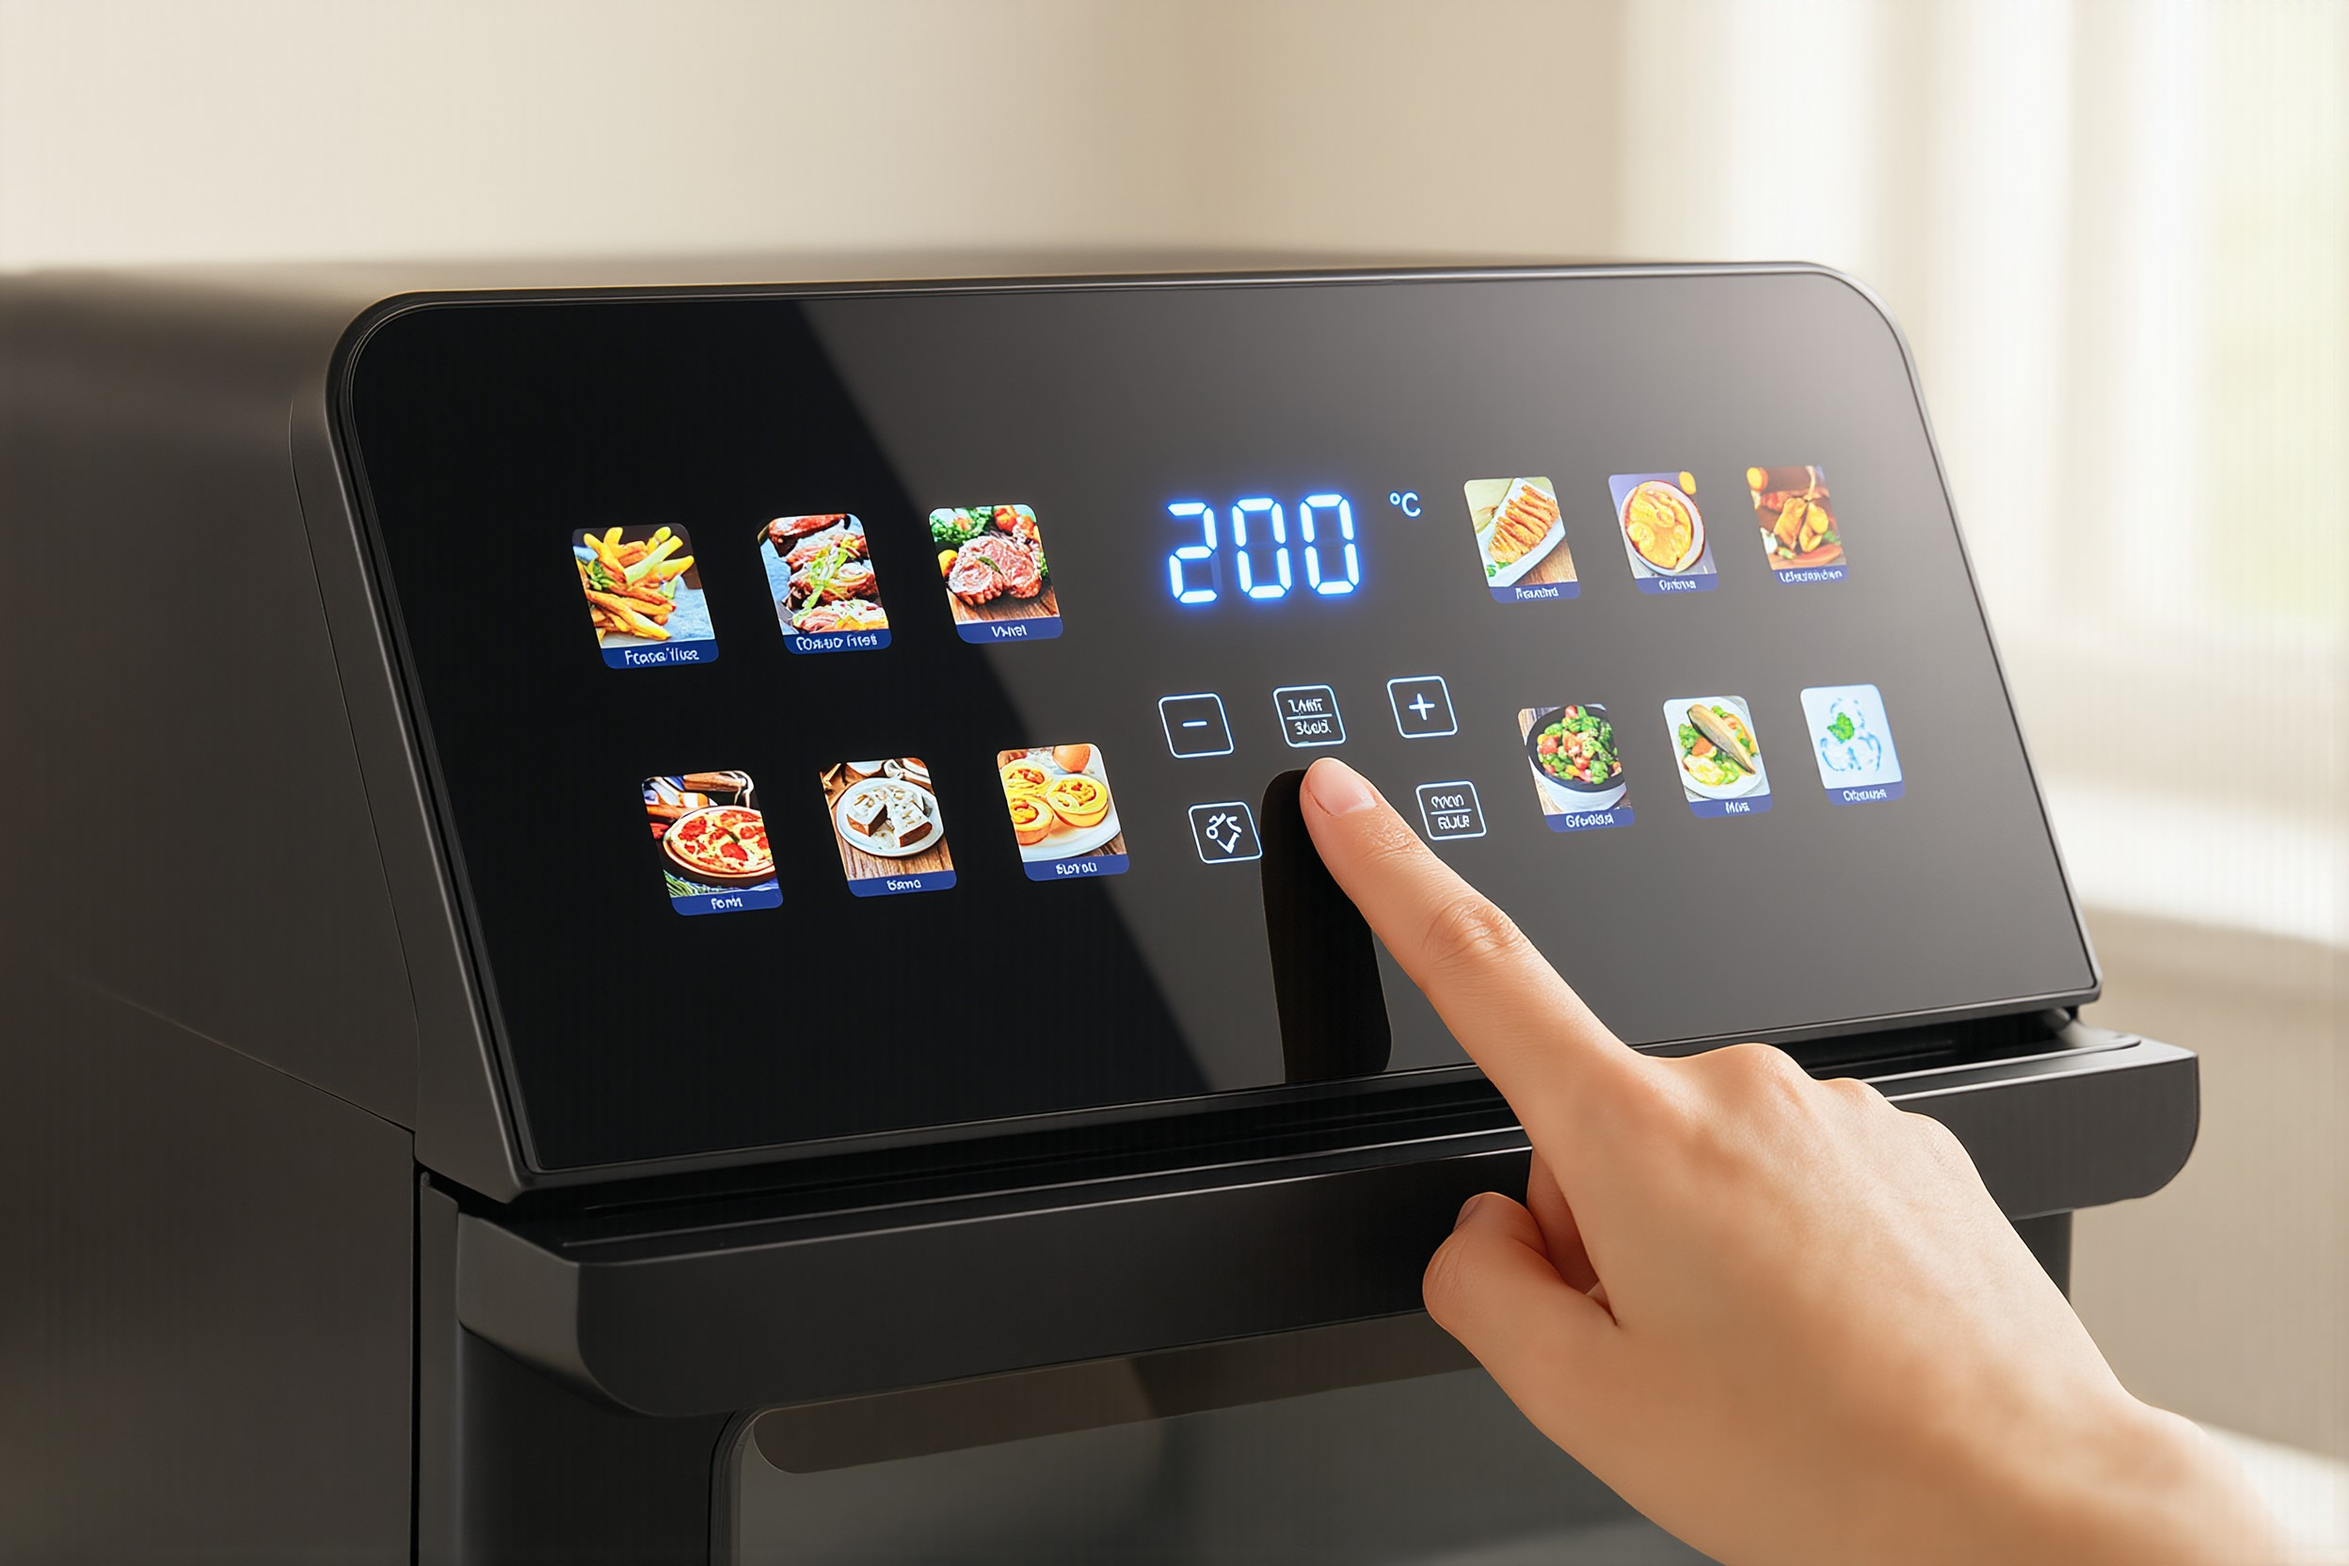
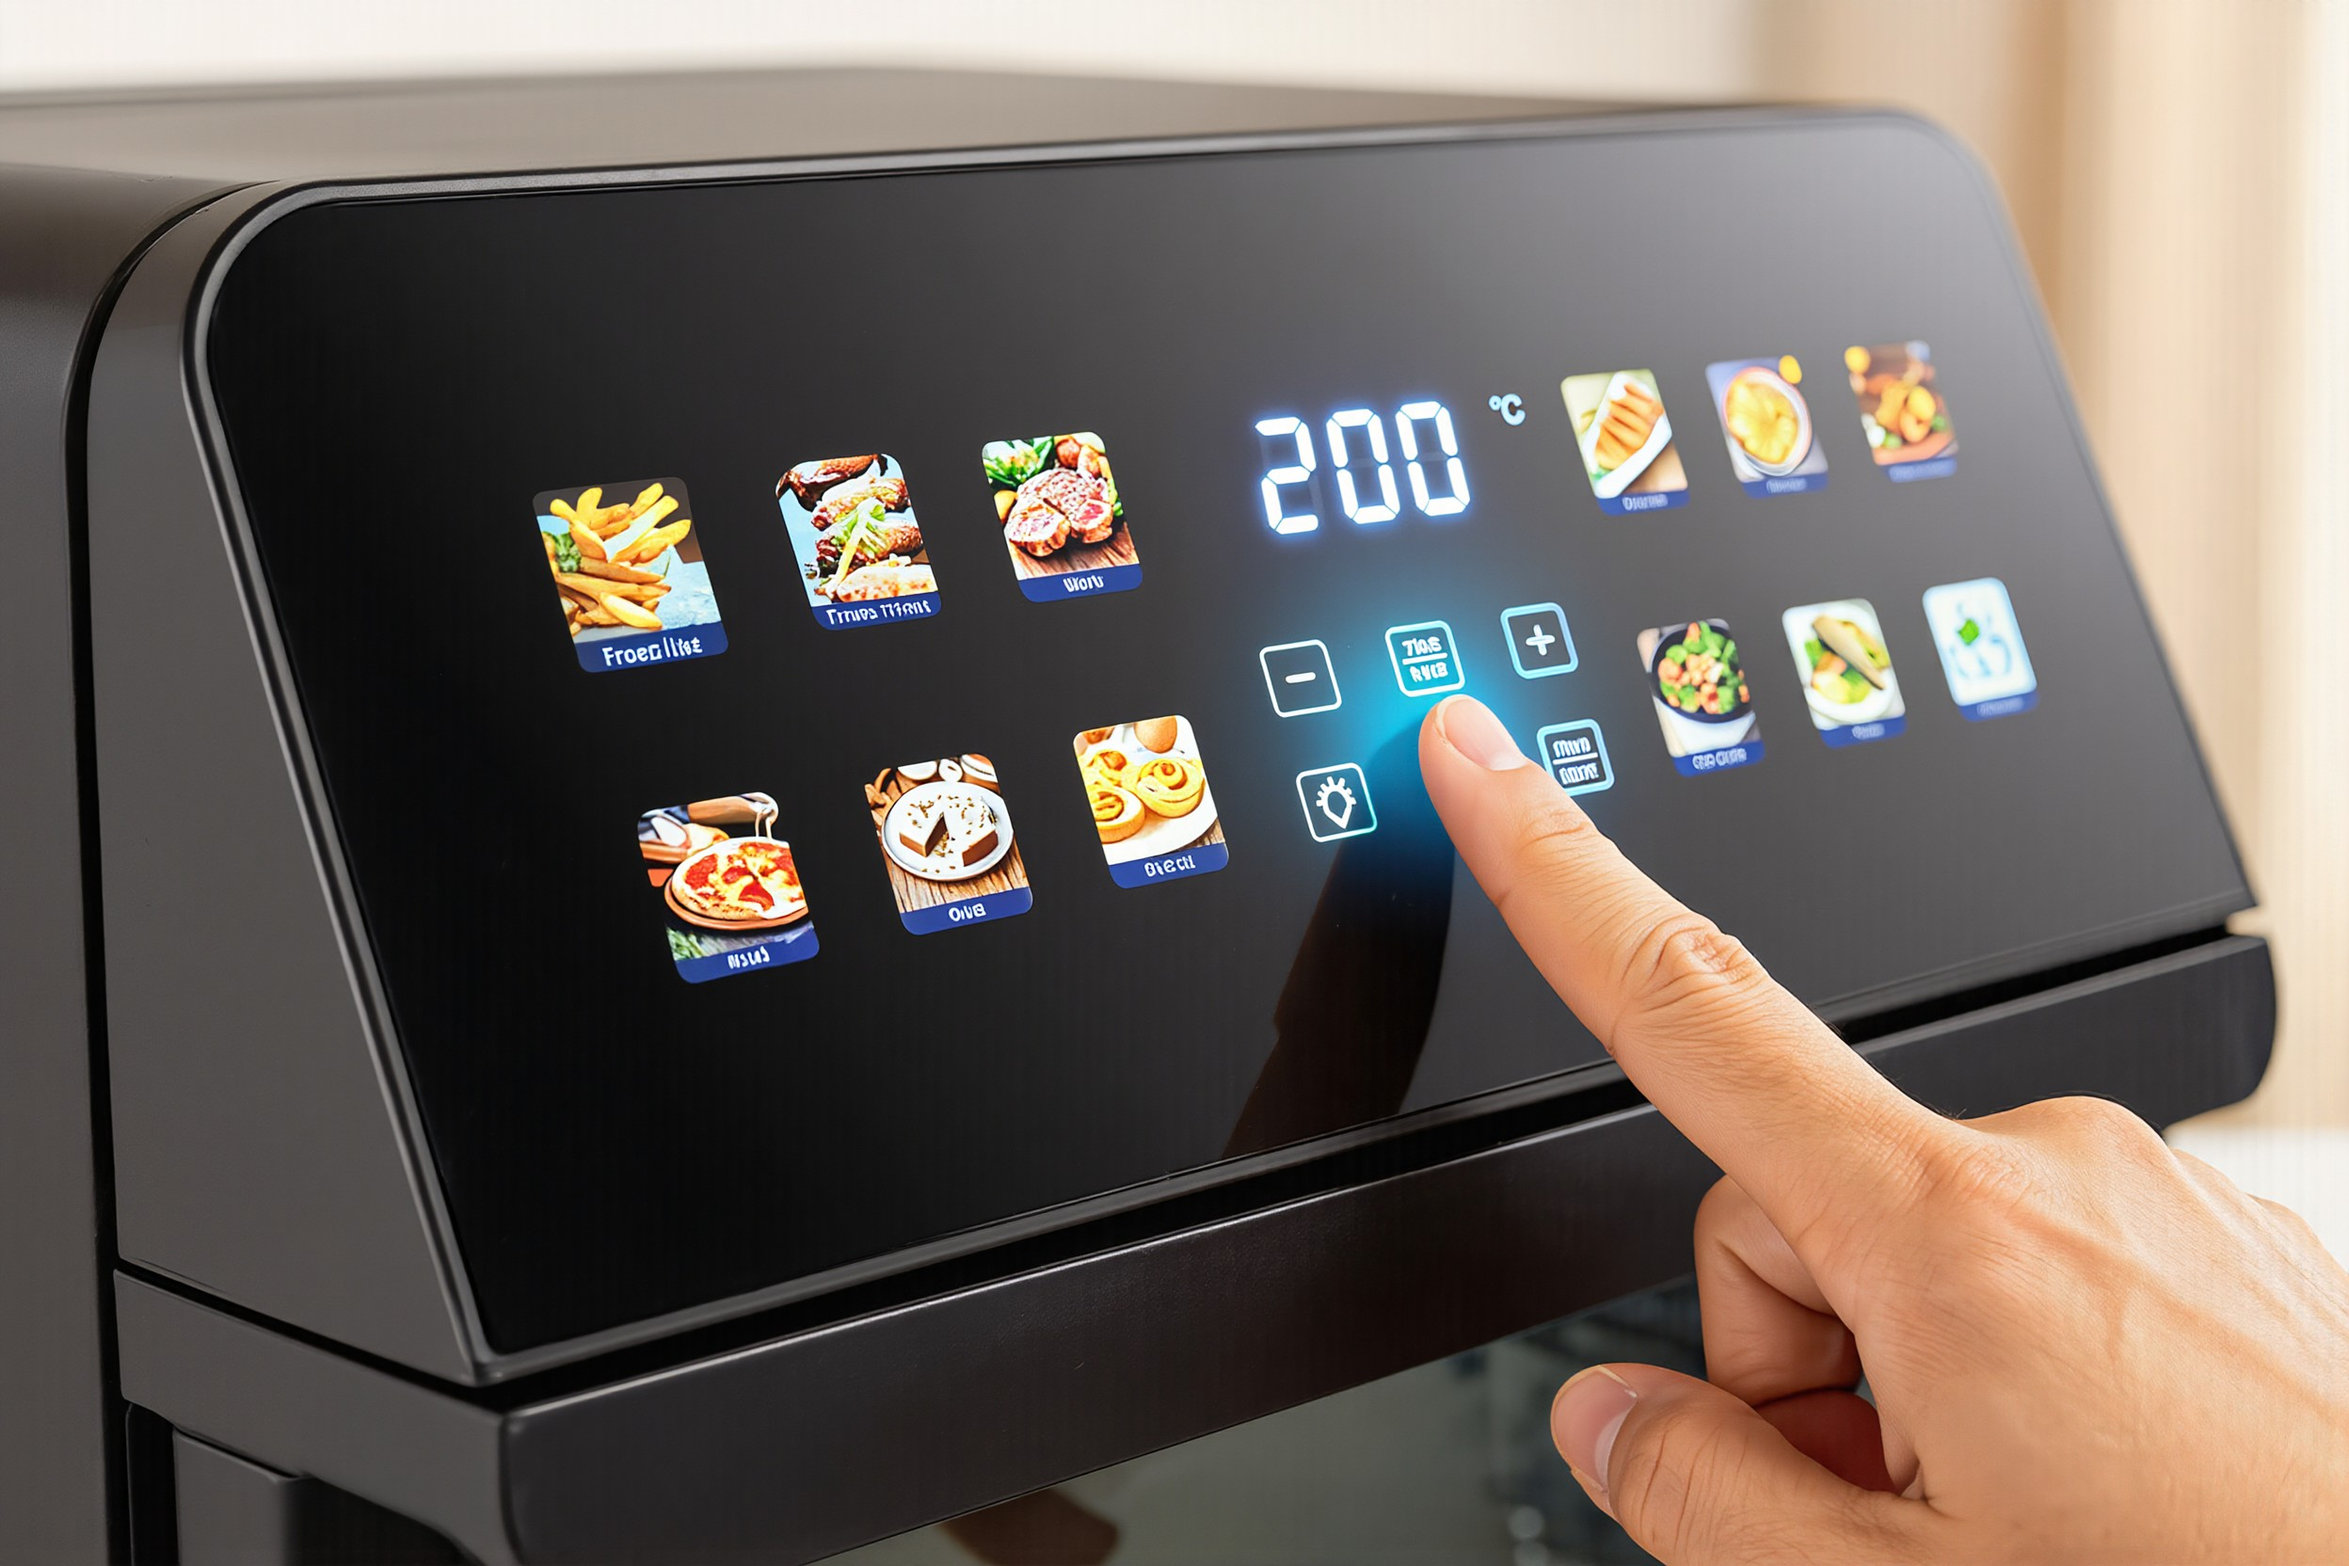
Regenerate Shopee images 5 and 7 to match the real machine
Matte charcoal body, same-colour Gaabor strip, shallow silver tray, corrected panel buttons.

Claude-Session: https://claude.ai/code/session_01SswZjTuHexTcYpVpFSNqn5

diff --git a/shopee_images/src/img5.html b/shopee_images/src/img5.html
@@ -4,7 +4,7 @@ body{background:#14161b;color:#fff;padding:64px 64px 70px}
 h1{font-size:86px;margin-top:34px}
 h1 span{color:#ff8a2a;display:block}
 .hero{margin:20px -64px 30px;height:800px;overflow:hidden;position:relative}.hero:after{content:'';position:absolute;inset:0;background:linear-gradient(#14161b 0,transparent 14%,transparent 84%,#14161b 100%)}
-.hero img{width:1080px;height:1080px;object-fit:cover;margin-top:-170px;display:block}
+.hero img{width:1080px;height:1080px;object-fit:cover;margin-top:-150px;display:block}
 .card{background:#1d2027;border-radius:26px;padding:30px 36px;margin-bottom:22px;display:flex;gap:30px;align-items:center}
 .card svg{flex:none;width:52px;height:52px}
 .card b{display:block;font-size:40px;font-weight:700;margin-bottom:6px}
@@ -12,7 +12,7 @@ h1 span{color:#ff8a2a;display:block}
 </style></head><body>
 <div class="pill">PRAKTIS DAN AMAN</div>
 <h1>Pantau Makanan <span>Tanpa Buka Pintu.</span></h1>
-<div class="hero"><img src="hero_a.jpg"></div>
+<div class="hero"><img src="hero.jpg"></div>
 <div class="card"><svg viewBox="0 0 48 48" fill="none" stroke="#ff8a2a" stroke-width="3" stroke-linecap="round" stroke-linejoin="round"><path d="M24 5a13 13 0 0 0-7 24c1.4 1 2 2.2 2 4v2h10v-2c0-1.8.6-3 2-4A13 13 0 0 0 24 5z"/><path d="M19 40h10M21 44h6"/></svg><div><b>Lampu Oven</b><p>Sentuh tombol lampu, makanan terlihat jelas lewat kaca.</p></div></div>
 <div class="card"><svg viewBox="0 0 48 48" fill="none" stroke="#ff8a2a" stroke-width="3"><rect x="5" y="7" width="38" height="34" rx="6"/><rect x="12" y="14" width="24" height="20" rx="3"/></svg><div><b>Pintu Kaca Ganda</b><p>Terbuka ke bawah, gagang tersembunyi, tampilan rapi.</p></div></div>
 <div class="card" style="margin-bottom:0"><svg viewBox="0 0 48 48" fill="none" stroke="#ff8a2a" stroke-width="3" stroke-linecap="round"><circle cx="24" cy="24" r="19"/><path d="M19 16v16M29 16v16"/></svg><div><b>Auto-Pause</b><p>Pemanasan berhenti sementara saat pintu dibuka.</p></div></div>
